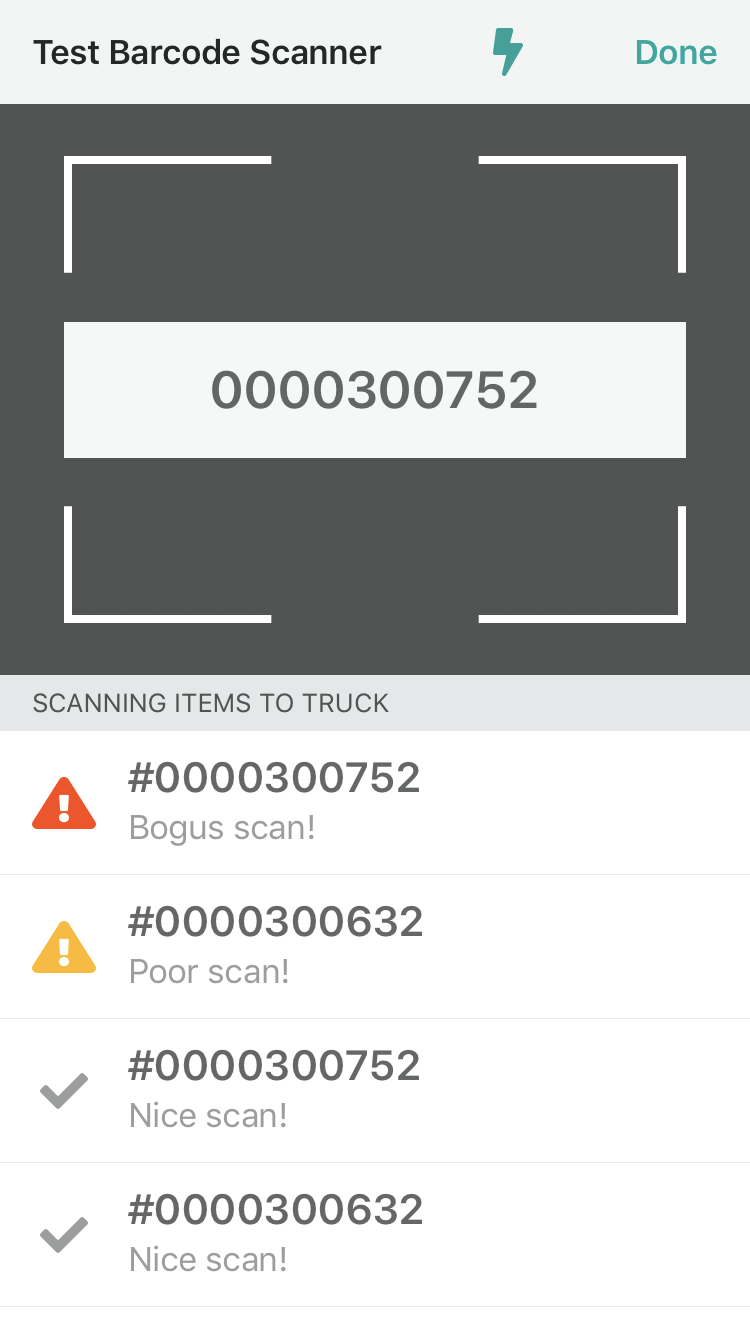
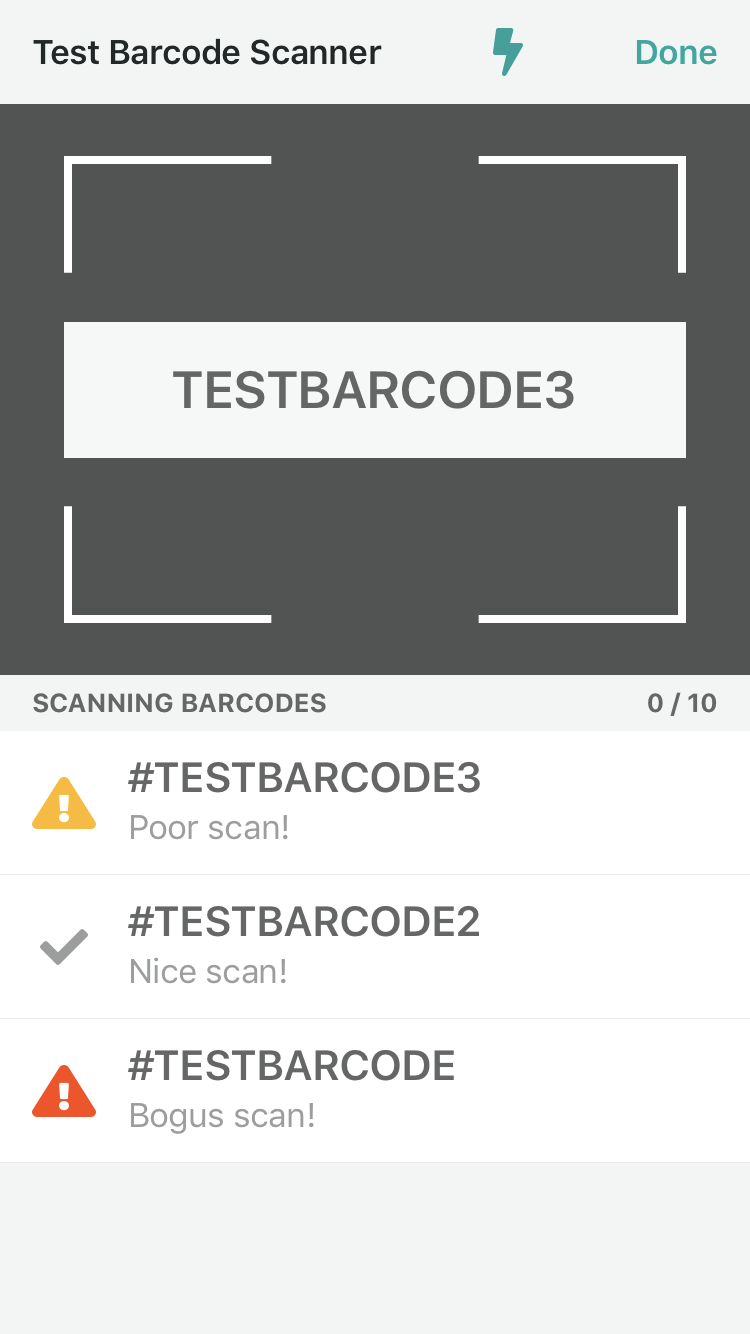
Update readme for open source

diff --git a/Example/SplitScreenScanner/StartScanningViewController.swift b/Example/SplitScreenScanner/StartScanningViewController.swift
@@ -11,7 +11,7 @@ import UIKit
 import SplitScreenScanner
 
 class StartScanningViewController: UIViewController {
-    let startingBarcode = "SO0000000001195"
+    let startingBarcode = "START"
 
     @IBAction func startScanningButtonPressed(_ sender: Any) {
         do {
@@ -51,7 +51,7 @@ extension StartScanningViewController: SplitScannerCoordinatorDelegate {
 // MARK: - ScanHistoryDataSource
 extension StartScanningViewController: ScanHistoryDataSource {
     var tableViewHeaderTitle: String {
-        return "Scanning Items to Truck"
+        return "Scanning Barcodes"
     }
 
     var tableViewHeaderSubtitle: String? {
@@ -60,7 +60,7 @@ extension StartScanningViewController: ScanHistoryDataSource {
     }
 
     var nothingScannedText: String {
-        return "Scan an item to start loading"
+        return "Start scanning"
     }
 
     func playBarcodeScanSound(for result: ScanResult) {

diff --git a/README.md b/README.md
@@ -11,7 +11,7 @@ SplitScreenScanner lets you quickly and easily add a fully functioning barcode s
 
 ```swift
 class StartScanningViewController: UIViewController {
-    let startingBarcode = "SO0000000001195"
+    let startingBarcode = "START"
 
     var splitScannerCoordinator: SplitScannerCoordinator?
 
@@ -67,7 +67,7 @@ extension StartScanningViewController: scanHistoryDataSource {
 
     // Title for the scan history table view
     var tableViewHeaderTitle: String {
-        return "Scanning Items to Truck"
+        return "Scanning Barcodes"
     }
     
     // Subtitle for the scan history table view, displayed on the right side of the header
@@ -79,7 +79,7 @@ extension StartScanningViewController: scanHistoryDataSource {
 
     // Text displayed when no scans have been made during the current scanning session
     var nothingScannedText: String {
-        return "Scan an item to start loading"
+        return "Start scanning"
     }
     
     // Used for playing sounds just after a barcode scan is made
@@ -132,7 +132,7 @@ extension StartScanningViewController: ScanToContinueDataSource {
 }
 ```
 
-Please note that when initializing splitScannerCoordinator the `scanToContinueDataSource: ScanToContinueDataSource?` parameter is optional. Only populate this parameter with a value if you want your scanning session to require an initial scan, using the `scan(startingBarcode:)` method, to start the main barcode scanner (e.g. need to scan truck before scanning items) and if you want your scanning session to be expirable. Being expirable means that your scanning session will expire after a short period of time without a scan, or when the app is backgrounded. If a scanning session expires then it will need to be started again. This means the scanner will now be calling the `scan(startingBarcode:)` method again until it receives a .success ScanResult.
+Please note that when initializing splitScannerCoordinator, the `scanToContinueDataSource: ScanToContinueDataSource?` parameter is optional. Only populate this parameter if you want your scanning session to require an initial scan to start the main barcode scanner (which will call `scan(startingBarcode:)`), and if you want your scanning session to be expirable. Being expirable means that your scanning session will expire after a short period of time without a scan, or when the app is backgrounded. If a scanning session expires, it will need to be started again. This means the scanner will call `scan(startingBarcode:)` again until it returns `ScanResult.success`.
 
 <img src="Screenshots/scan_to_begin.png" height="50%" width="50%">
 (Scan to begin view)
